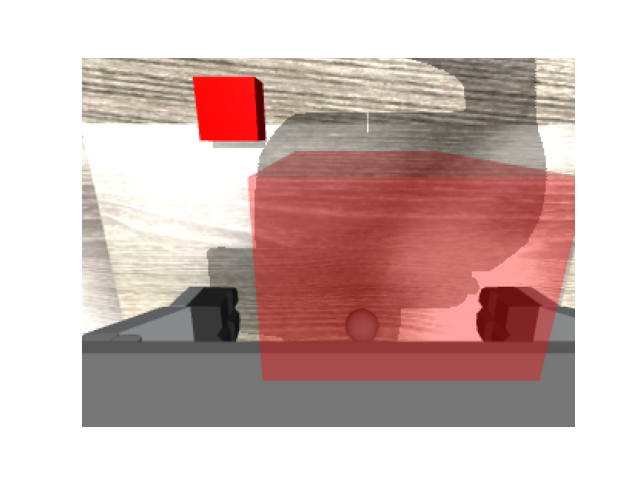
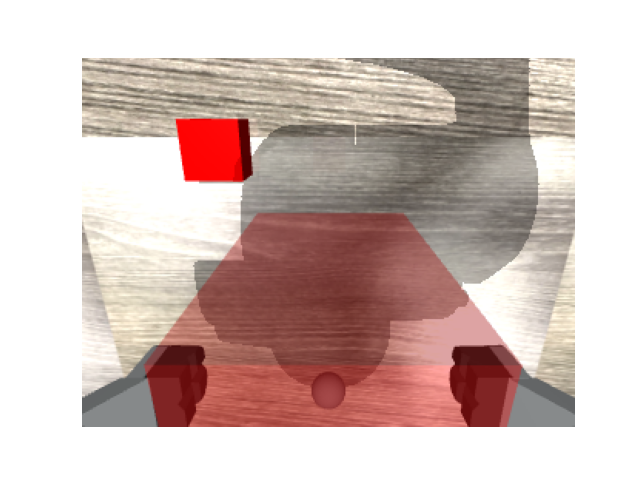
progress

diff --git a/sim_to_real/real_visual_reacher.py b/sim_to_real/real_visual_reacher.py
@@ -75,7 +75,7 @@ def agent_process(action_name, action_shape, action_dtype,
 
 
     # Load the params object from the pickle file
-    with open("policies/params_general_3d.pkl", "rb") as f:
+    with open("policies/params_general_3d_v2.pkl", "rb") as f:
         params = pickle.load(f)
 
     inference_fn = make_inference_fn(network_factory=network_factory)
@@ -94,7 +94,7 @@ def agent_process(action_name, action_shape, action_dtype,
             # print(f"Action: {action}")
             # end = time.time()
             # print("Inference time:", end - start)
-            time.sleep(0.15) # set the cycle time to 50 ms
+            time.sleep(0.35) # set the cycle time to 50 ms
             action_array[:] = action
     except KeyboardInterrupt:
         print("Agent process interrupted by user.")
@@ -125,7 +125,7 @@ if __name__ == "__main__":
     from franka_real.FrankaPickCubeCartesian import FrankaPickCubeCartesian
     env = FrankaPickCubeCartesian(camera_index=0)
     ee_pos,_ = env.reset()
-    dummy_img = np.ones((64, 64, 3), dtype=np.uint8) * 255  # Dummy image for initialization
+    dummy_img = np.zeros((64, 64, 3), dtype=np.uint8) * 255  # Dummy image for initialization
     success_grasp = False
 
     action = np.array([0.0, 0.0, 0.0, 0.0], dtype=np.float32)
@@ -147,24 +147,29 @@ if __name__ == "__main__":
         action = action_array.copy()  # Copy the action from shared memory
         # action_y_z = 0.05 * action[:2] # this is the increment
         print(f"Action: {action}")
-        if (action[3] < -0.25 and not success_grasp): # grasp it only once
+        if (action[3] < -0.4 and not success_grasp): # grasp it only once
             success_grasp = env.grasp_object()
+            time.sleep(0.25)  # Wait for the gripper to close
         # target_y_z = action_y_z + ee_pos[1:3] # this is the target position
-        # target_y_z = jp.array([jp.clip(target_y_z[0], -0.1, 0.1), jp.clip(target_y_z[1], 0.01, 0.2)]) # for safety
+        if success_grasp:
+            action = jp.array([0,0,action[2],action[3]])
         # target_x_y_z = jp.concatenate([jp.array([0.57]), target_y_z])
-        target_x_y_z = 0.01 * action[:3] + ee_pos
+        target_x_y_z = 0.03 * action[:3] + ee_pos
+        target_x_y_z = jp.array([target_x_y_z[0], \
+                                 jp.clip(target_x_y_z[1], -0.4, 0.4), \
+                                 jp.clip(target_x_y_z[2], 0.035, 0.2)]) # for safety
         start = time.time()
         ee_pos = env.step(target_x_y_z)
         print(f"Target position: {target_x_y_z}, Current position: {ee_pos}")
         end = time.time()
         print(f"Time taken for one step: {end - start:.3f} seconds")
-
+        
         if success_grasp and ee_pos[2] > 0.1:
             print("Trial complete")
             break
     # time.sleep(2)
     ## slowly lower z value to place down
-    target_x_y_z = jp.array([ee_pos[0], ee_pos[1], 0.061])  # Keep x, y the same and set z to 0.02
+    target_x_y_z = jp.array([ee_pos[0], ee_pos[1], 0.04])  # Keep x, y the same and set z to 0.02
     env.step(target_x_y_z)
     env.open_gripper()
     env.reset()

diff --git a/sim_to_real/camera.py b/sim_to_real/camera.py
@@ -3,8 +3,11 @@ import cv2
 
 class Camera():
     def __init__(self, cam_index=0):
+        
         self.cap = cv2.VideoCapture(cam_index)
         self.cap.set(cv2.CAP_PROP_FPS, 30)  # Set the framerate to 30 FPS
+
+
     def capture_img(self):
         ret, frame = self.cap.read()
         if not ret:
@@ -12,10 +15,13 @@ class Camera():
 
         # frame = cv2.resize(frame, (64, 64))
         # frame = cv2.cvtColor(frame, cv2.COLOR_BGR2RGB) 
-        return frame     
+        return frame
+
+
     
 if __name__=="__main__":
-    camera = Camera()
+    camera = Camera(cam_index=4)
+
     while True:
         img = camera.capture_img()
         cv2.imshow("Camera Feed", img)